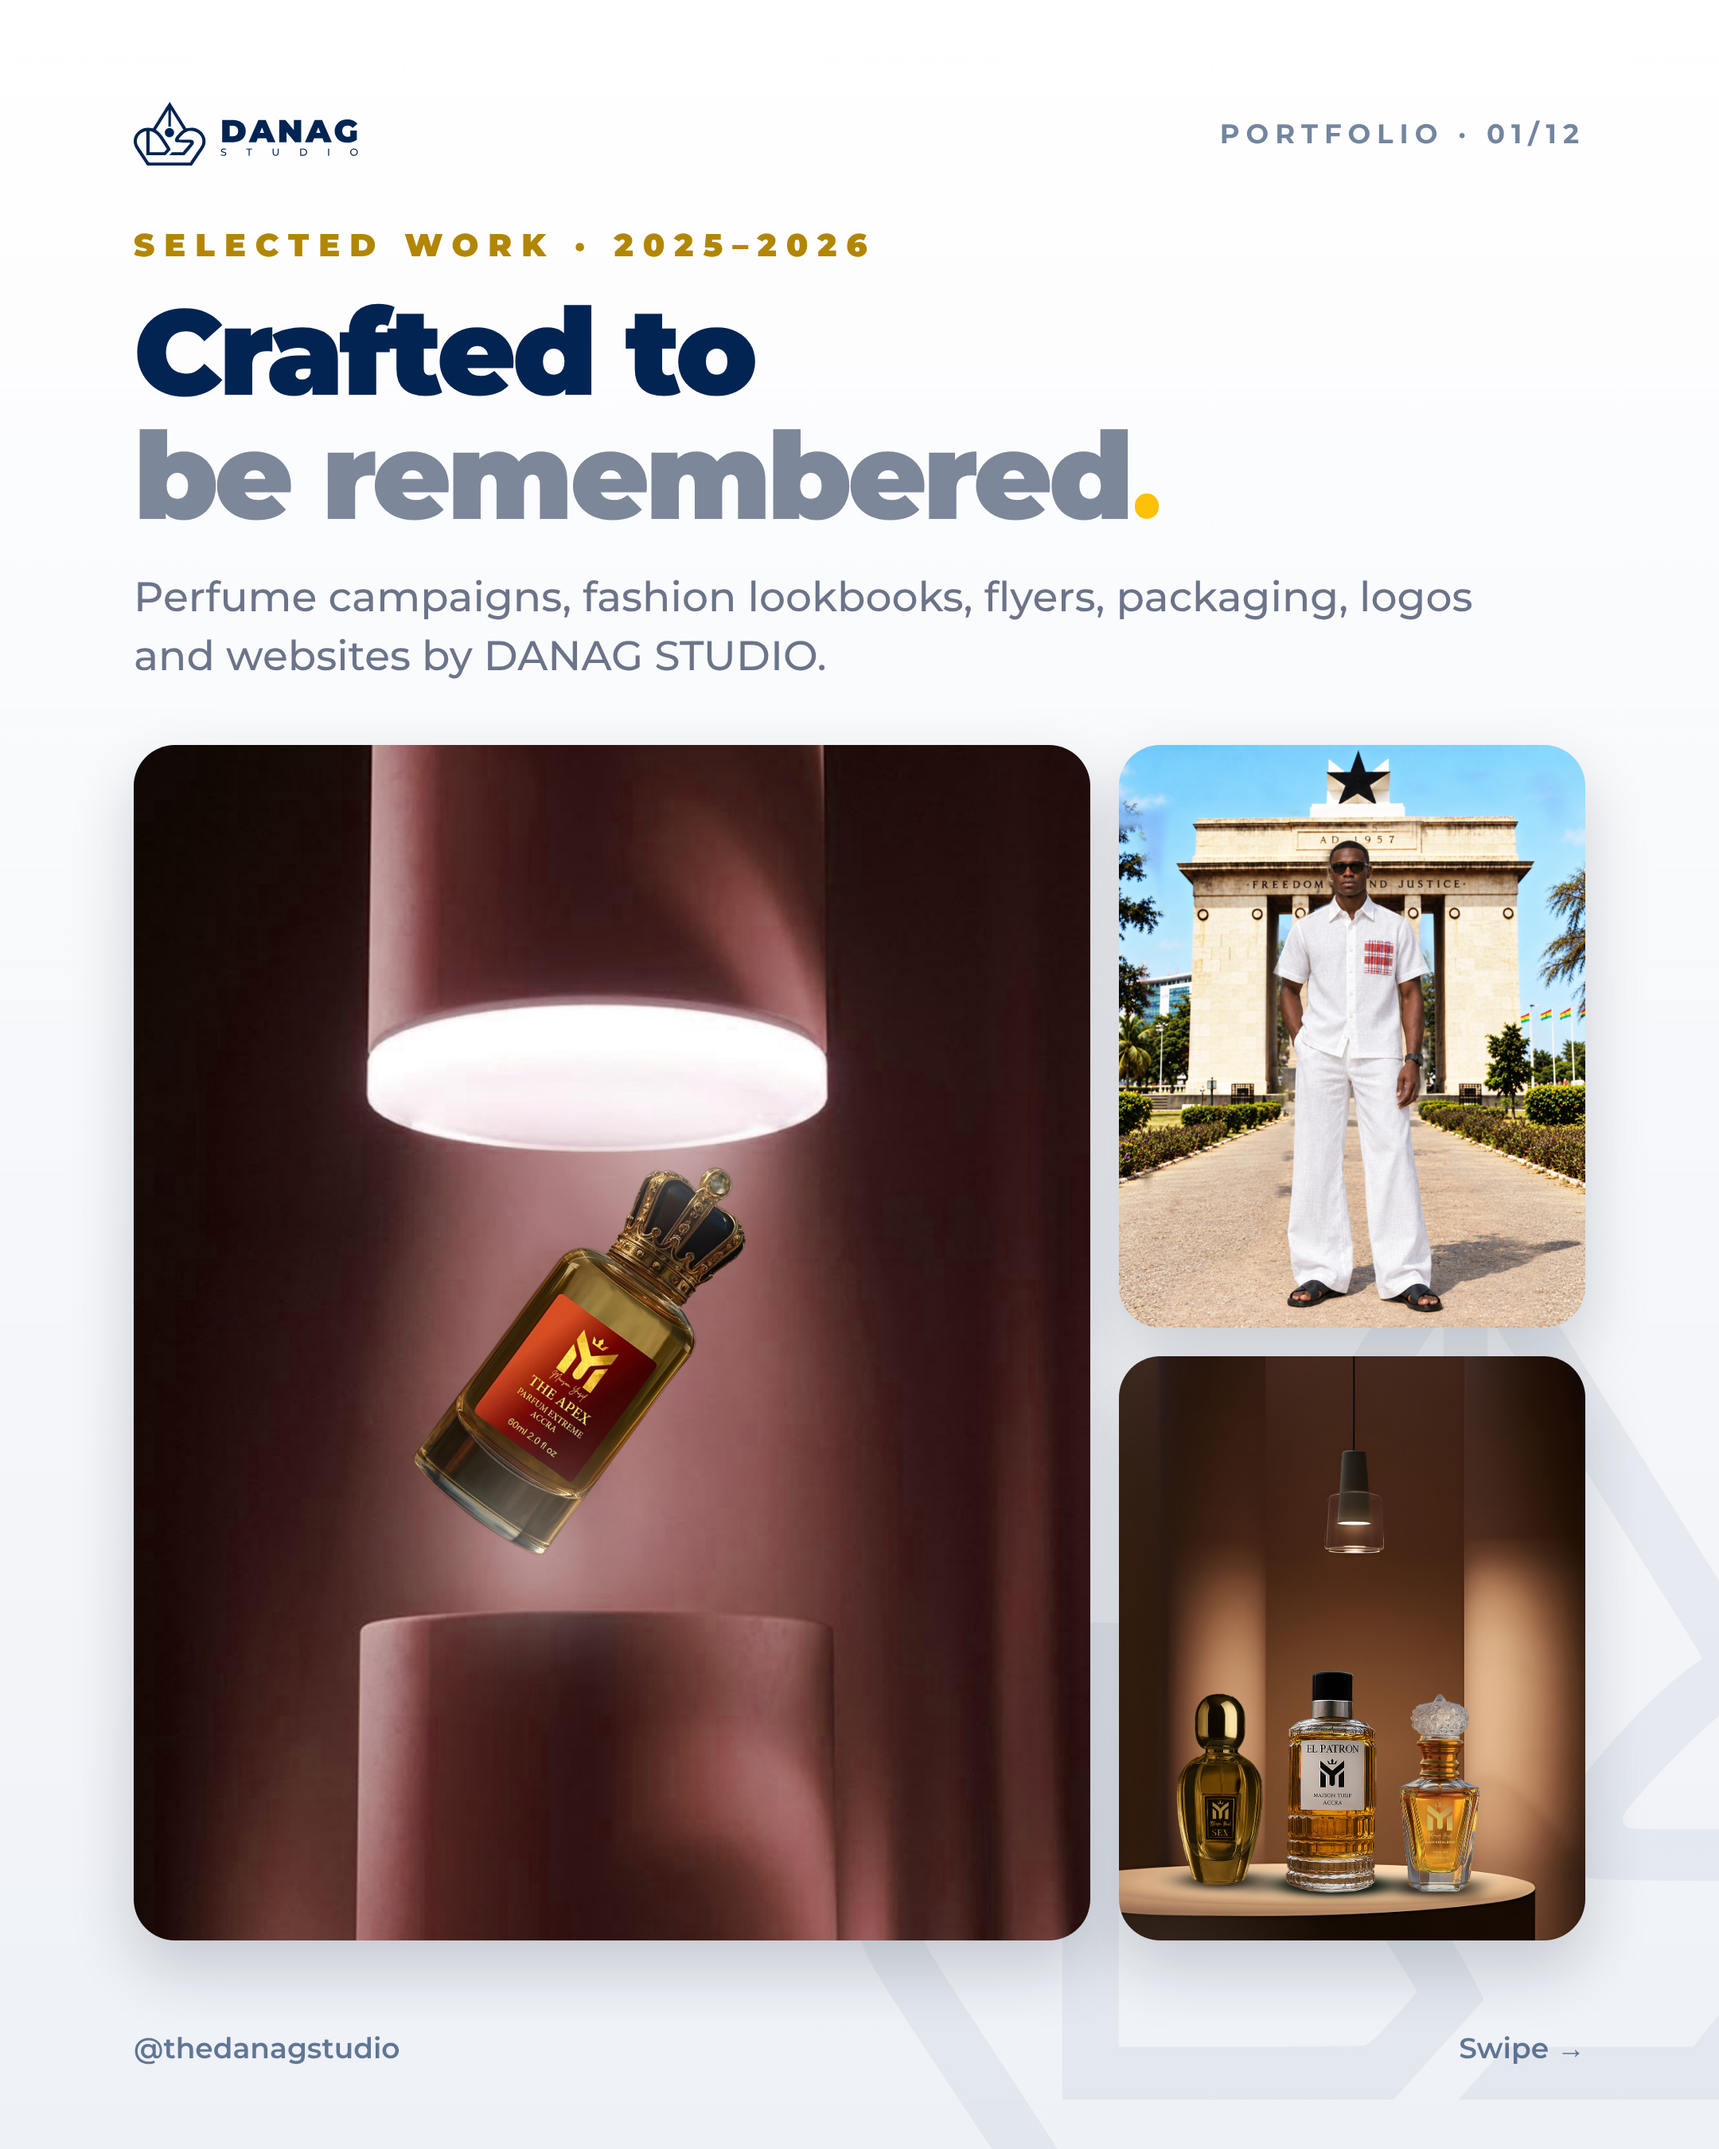
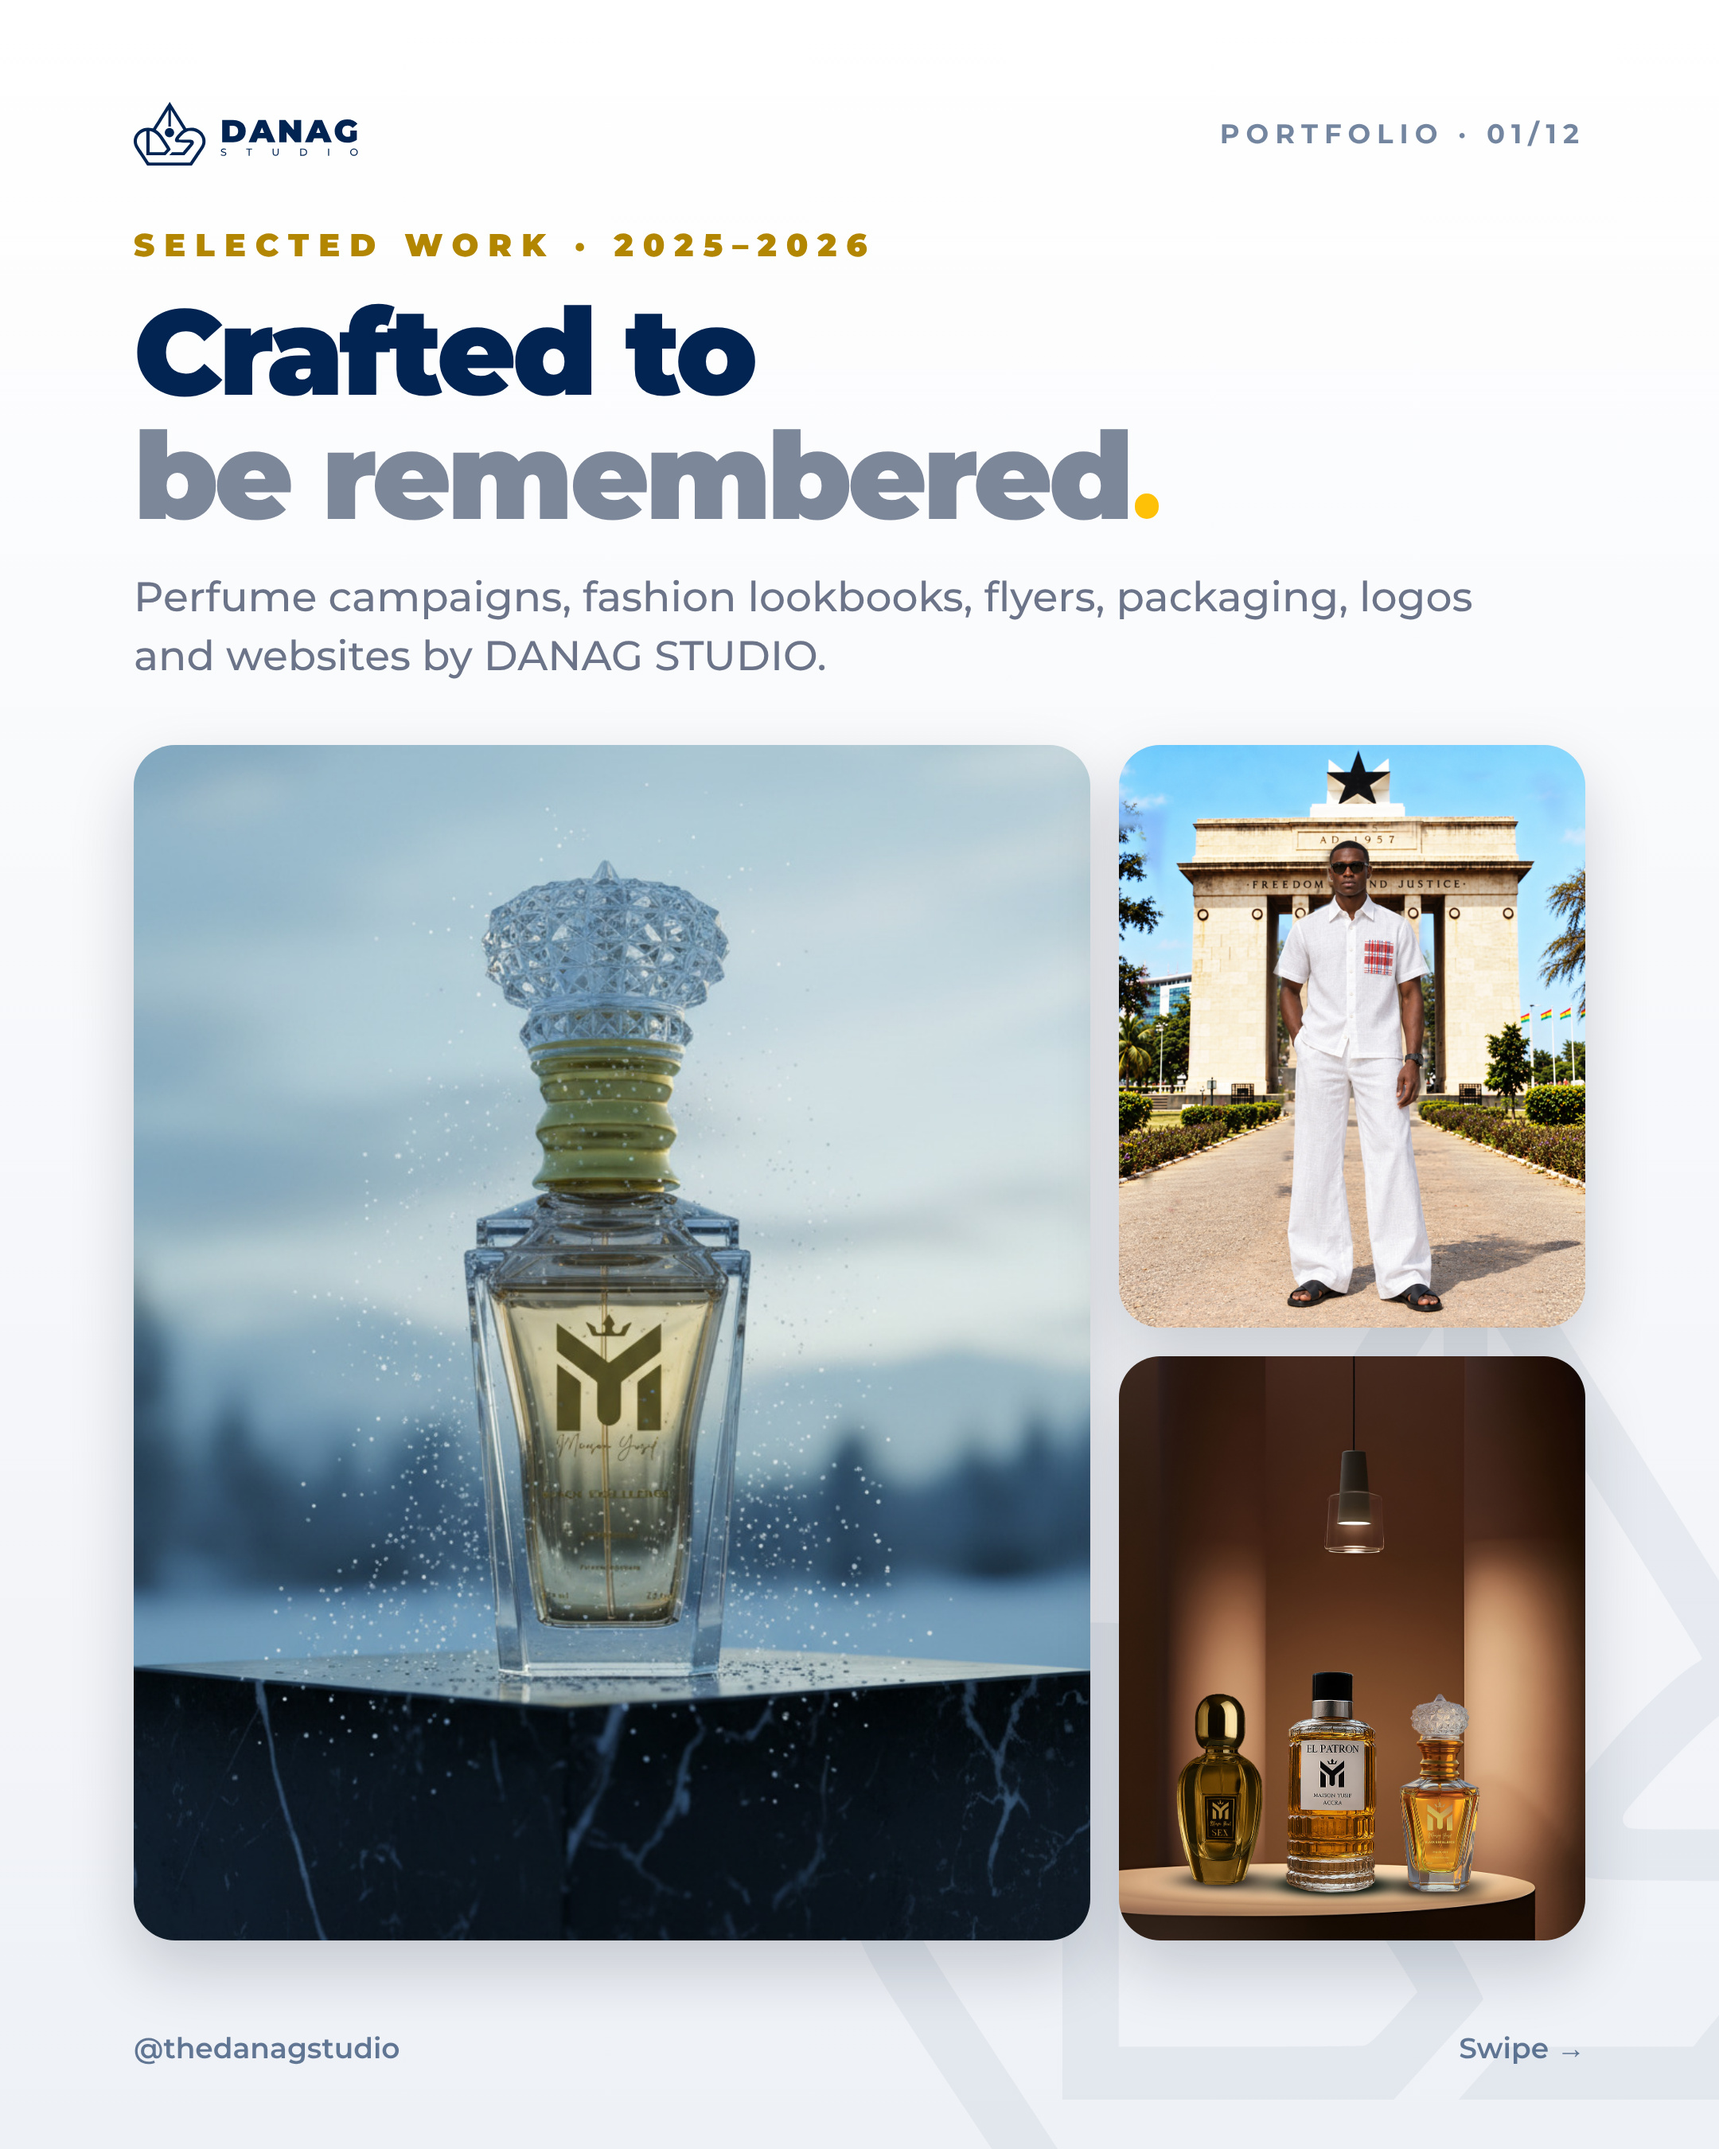
TikTok portfolio v3: new cover image
Claude-Session: https://claude.ai/code/session_016a1VN4sEuNiBsko23wNLQZ

diff --git a/portfolio/src/render_portfolio_tiktok2.py b/portfolio/src/render_portfolio_tiktok2.py
@@ -81,7 +81,7 @@ def cta(d):
 <div style="display:flex;align-items:center;gap:12px">{ic("SC")}<span style="margin-left:12px">@realdanag</span></div></div></div></div>'''
 SL = [
  lambda d: text('SELECTED WORK · 2025–2026', 'Crafted to', 'be remembered', 'Perfume campaigns, fashion lookbooks, flyers, packaging, logos and websites by DANAG STUDIO.')
-           + hero('my-apex', 'tf-gmg-red', 'my-specials-img'),
+           + hero('my-blackex', 'tf-gmg-red', 'my-specials-img'),
  lambda d: text('PRODUCT VISUALS · MAISON YUSIF FRAGRANCE', 'Luxury perfume,', 'made cinematic', 'Campaign visuals that make every bottle feel like a story.')
            + hero('my-066', 'my-wood', 'my-vatican'),
  lambda d: text('CAMPAIGNS · MAISON YUSIF FRAGRANCE', 'Launches, sales', 'and exhibitions', 'Posters and flyers for a New Jersey product launch, a US fragrance exhibition and a Christmas sale.')
